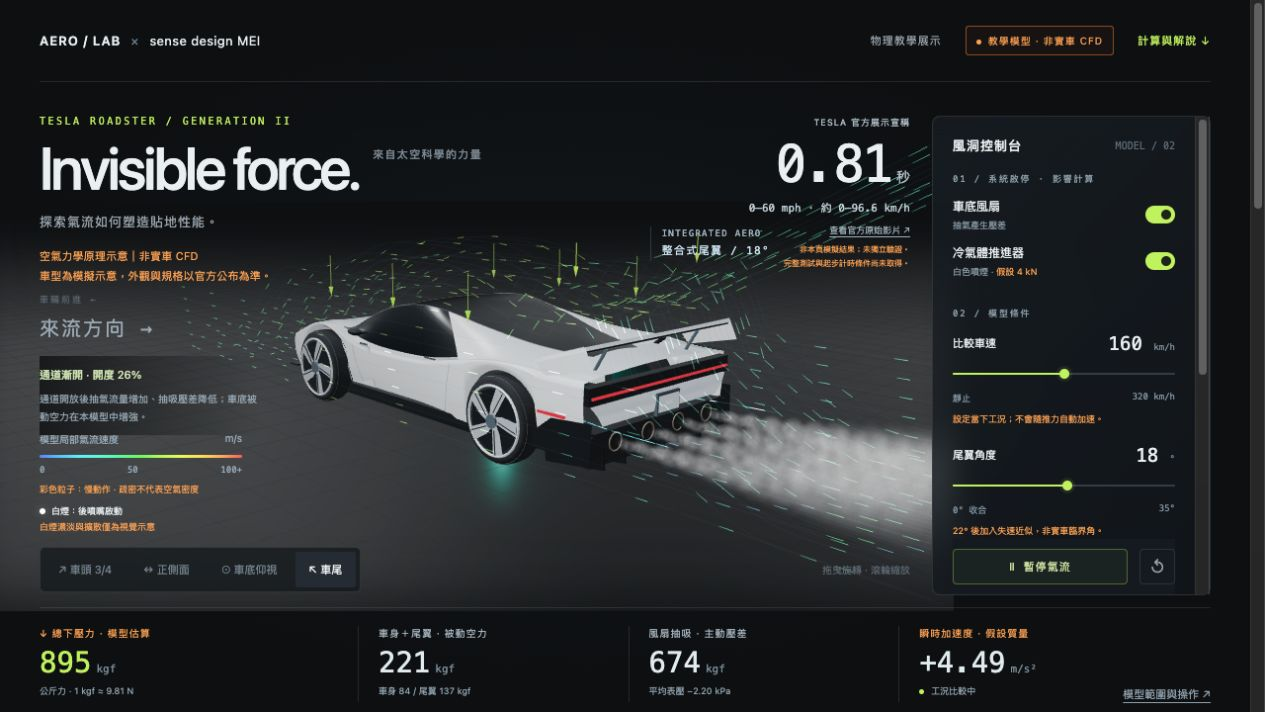
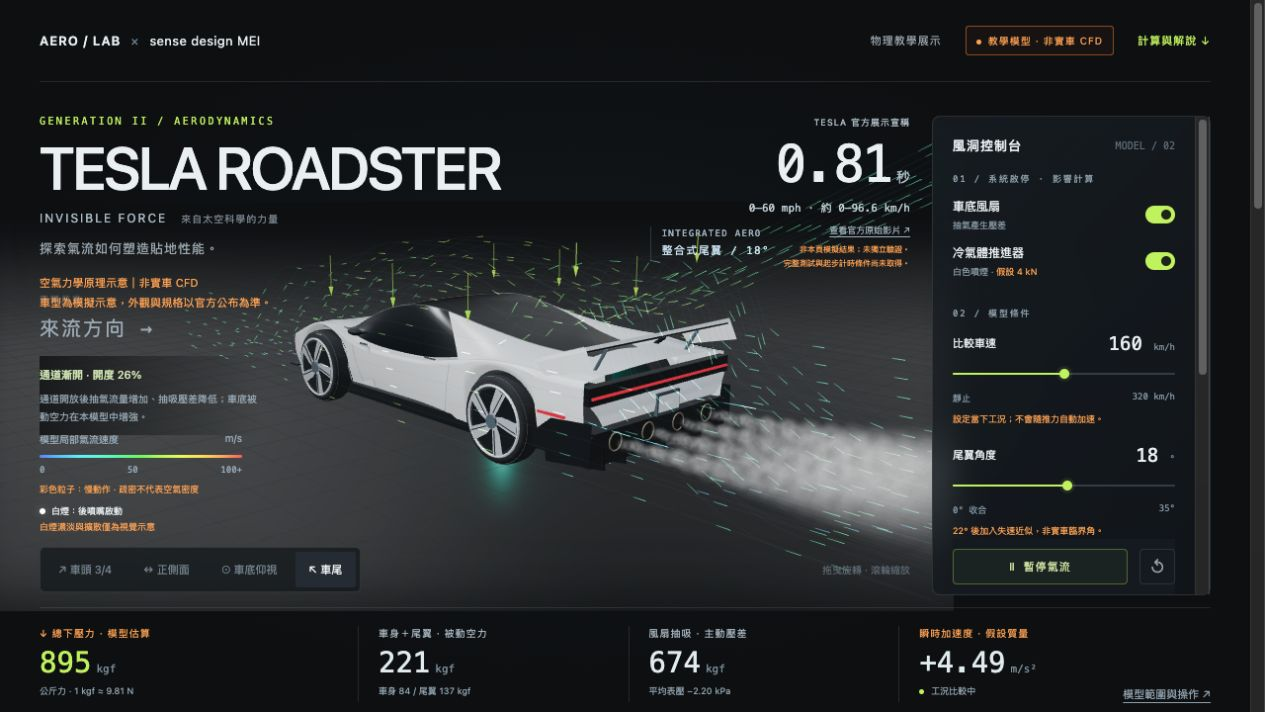
Make Tesla Roadster the primary title

diff --git a/index.html b/index.html
@@ -8,19 +8,20 @@
 <meta property="og:type" content="website">
 <meta property="og:locale" content="zh_TW">
 <meta property="og:site_name" content="AERO / LAB × sense design MEI">
-<meta property="og:title" content="來自太空科學的力量｜AERO / LAB × sense design MEI">
+<meta property="og:title" content="TESLA ROADSTER｜INVISIBLE FORCE · AERO / LAB × sense design MEI">
 <meta property="og:description" content="互動探索 Roadster 的氣流、主動尾翼、車底吸力與白色推進噴煙。空氣力學原理示意，非實車 CFD；車型與規格以官方公布為準。">
 <meta property="og:url" content="https://meimeijazz1206.github.io/roadster-aero-lab/">
-<meta property="og:image" content="https://meimeijazz1206.github.io/roadster-aero-lab/preview.jpg">
+<meta property="og:image" content="https://meimeijazz1206.github.io/roadster-aero-lab/preview.jpg?v=2">
 <meta property="og:image:type" content="image/jpeg">
 <meta property="og:image:width" content="1265">
 <meta property="og:image:height" content="712">
 <meta property="og:image:alt" content="Roadster 空力原理互動展示，包含白色推進噴煙與亮橘色模擬警語">
 <meta name="twitter:card" content="summary_large_image">
-<meta name="twitter:title" content="來自太空科學的力量｜AERO / LAB × sense design MEI">
+<meta name="twitter:title" content="TESLA ROADSTER｜INVISIBLE FORCE · AERO / LAB × sense design MEI">
 <meta name="twitter:description" content="互動探索 Roadster 的氣流、主動尾翼、車底吸力與白色推進噴煙。空氣力學原理示意，非實車 CFD；車型與規格以官方公布為準。">
-<meta name="twitter:image" content="https://meimeijazz1206.github.io/roadster-aero-lab/preview.jpg">
+<meta name="twitter:image" content="https://meimeijazz1206.github.io/roadster-aero-lab/preview.jpg?v=2">
 <link rel="canonical" href="https://meimeijazz1206.github.io/roadster-aero-lab/">
+
 <style>
 :root{color-scheme:dark;--bg:#0a0d10;--muted:#86929c;--line:#ffffff1a;--lime:#c7f369;--mono:ui-monospace,SFMono-Regular,Consolas,monospace}*{box-sizing:border-box}body{margin:0;background:var(--bg);color:#edf2f4;font-family:-apple-system,BlinkMacSystemFont,"Noto Sans TC",Arial,sans-serif;font-size:13px}button,input{font:inherit}button{cursor:pointer}button:focus-visible,a:focus-visible,summary:focus-visible{outline:2px solid var(--lime);outline-offset:5px}button{color:inherit}#app{position:relative;min-height:820px;height:100svh;overflow:hidden;background:radial-gradient(ellipse at 45% 48%,#23303955,transparent 60%)}header{height:83px;display:flex;align-items:center;justify-content:space-between;margin:0 40px;border-bottom:1px solid var(--line);position:relative;z-index:2}.brand{font-size:15px;letter-spacing:5px;font-weight:650;display:flex;align-items:center;gap:16px}.brand svg{width:29px;height:24px}.top-meta{display:flex;align-items:center;gap:24px;color:#a2acb3;font-size:11px;letter-spacing:1px}.pill{border:1px solid #ffffff27;padding:7px 10px;border-radius:3px;font-size:10px;letter-spacing:1px}.dot{display:inline-block;width:5px;height:5px;background:var(--lime);border-radius:50%;margin-right:7px}.intro{position:absolute;top:117px;left:40px;z-index:2;pointer-events:none}.eyebrow{color:var(--lime);font:10px var(--mono);letter-spacing:2.5px;margin-bottom:12px}.intro h1{font-size:clamp(42px,5.4vw,80px);line-height:1;margin:0 0 15px;font-weight:500;letter-spacing:-3px}.intro h1 span{font-size:11px;letter-spacing:1.3px;display:inline-block;vertical-align:top;margin:10px 0 0 14px;color:var(--muted)}.intro p{font-size:13px;letter-spacing:2px;color:#a6b1b9;margin:0}.subtitle{margin-top:16px!important;font-size:11px!important;color:#6e7b85!important;letter-spacing:.2px!important}.scene{position:absolute;inset:85px 280px 122px 0;touch-action:none}.scene canvas{display:block;width:100%;height:100%;outline:none}.scene:after{content:"";position:absolute;inset:0;pointer-events:none;box-shadow:inset 0 -45px 65px -45px #0a0d10}.axis-label{position:absolute;left:40px;top:51%;color:#65727c;font:10px var(--mono);letter-spacing:2px;pointer-events:none}.axis-label b{display:block;margin-top:9px;color:#a6b3bc;font-size:20px;font-weight:400}.legend{position:absolute;left:40px;bottom:200px;z-index:2;width:170px;pointer-events:none}.legend-title{display:flex;justify-content:space-between;font-size:10px;color:#8d9aa4;margin-bottom:9px}.gradient{height:3px;background:linear-gradient(90deg,#2375ff,#37c8ed,#c4db68,#ffad44,#ff4e49);border-radius:3px}.legend-ticks{display:flex;justify-content:space-between;font:9px var(--mono);color:#78858e;margin-top:7px}.viewbar{position:absolute;bottom:141px;left:40px;right:322px;display:flex;align-items:center;justify-content:space-between;gap:15px;z-index:3}.views{display:flex;border:1px solid var(--line);border-radius:5px;background:#11171bbb;padding:4px;gap:4px}.views button{border:0;background:transparent;padding:10px 14px;color:#7e8c96;font-size:11px;border-radius:3px;white-space:nowrap}.views button[aria-pressed=true]{background:#293139;color:#f0f4f6}.gesture{color:#6b7781;font-size:10px;white-space:nowrap}.panel{position:absolute;top:117px;right:40px;bottom:138px;width:260px;border:1px solid var(--line);border-radius:8px;background:linear-gradient(135deg,#1a2229b8,#10161dd9);backdrop-filter:blur(16px);z-index:4;padding:21px;display:flex;flex-direction:column;overflow-y:auto;overscroll-behavior:contain}.panel>*{flex-shrink:0}.panel-head{display:flex;align-items:center;justify-content:space-between;margin-bottom:24px}.panel-head h2{font-size:13px;font-weight:500;letter-spacing:1px;margin:0}.panel-head span{font:10px var(--mono);color:#697983}.section-title{font:9px var(--mono);color:#778995;letter-spacing:1.8px;margin-bottom:13px}.toggle-row{display:flex;align-items:center;justify-content:space-between;gap:9px;margin-bottom:16px;cursor:pointer;min-height:28px}.toggle-row strong{font-size:12px;font-weight:400;display:block}.toggle-row small{font-size:9px;display:block;color:#70808b;margin-top:4px}.switch{position:relative;flex-shrink:0;width:30px;height:18px}.switch input{position:absolute;opacity:0;width:100%;height:100%;margin:0;cursor:pointer}.switch span{display:block;width:100%;height:100%;background:#384149;border-radius:15px;pointer-events:none;transition:background .15s}.switch span:after{content:"";position:absolute;top:4px;left:4px;width:10px;height:10px;border-radius:50%;background:#adb7be;transition:transform .15s}.switch input:checked+span{background:var(--lime)}.switch input:checked+span:after{transform:translateX(12px);background:#20291a}.switch input:focus-visible+span{outline:2px solid white;outline-offset:3px}.divider{height:1px;background:var(--line);margin:4px 0 20px;flex-shrink:0}.range-block{margin-bottom:22px}.range-label{display:flex;justify-content:space-between;align-items:center;margin-bottom:12px;font-size:11px}.range-label output{font:19px var(--mono);color:#eef3f5}.range-label output small{font-size:9px;color:#8a9ba6}.range-block input[type=range]{width:100%;height:16px;cursor:pointer;appearance:none;background:transparent;margin:0}.range-block input[type=range]::-webkit-slider-runnable-track{height:2px;background:linear-gradient(90deg,var(--lime) var(--fill,50%),#3a454e var(--fill,50%));border-radius:2px}.range-block input[type=range]::-webkit-slider-thumb{appearance:none;width:10px;height:10px;border-radius:50%;margin-top:-4px;background:var(--lime);box-shadow:0 0 0 3px #c7f36914}.range-block input[type=range]::-moz-range-track{height:2px;background:#3a454e}.range-block input[type=range]::-moz-range-progress{height:2px;background:var(--lime)}.range-block input[type=range]::-moz-range-thumb{width:10px;height:10px;border:0;background:var(--lime);border-radius:50%}.endpoints{display:flex;justify-content:space-between;color:#62737e;font:9px var(--mono);margin-top:7px}.play-row{display:flex;align-items:center;gap:12px;margin-top:auto;padding-top:3px}.play{width:100%;border:1px solid #c7f36955;background:#c7f3690b;border-radius:4px;height:36px;font-size:11px;color:#d7ecae;letter-spacing:1px}.play b{margin-right:8px;font-size:11px;font-weight:400}.reset{background:none;border:1px solid var(--line);border-radius:4px;height:36px;width:36px;flex-shrink:0;color:#a0adb5;font-size:17px}.panel-note{color:#6c7f8c;font-size:9px;line-height:1.7;margin:12px 0 0}.hud{position:absolute;left:40px;right:40px;bottom:30px;height:91px;border-top:1px solid var(--line);display:grid;grid-template-columns:1.18fr 1fr 1fr 1.15fr;z-index:3;padding-top:18px}.hud-cell{border-right:1px solid var(--line);padding:0 26px}.hud-cell:first-child{padding-left:0}.hud-cell:last-child{border:0;padding-right:0}.hud-label{font-size:10px;color:#7e909c;letter-spacing:1px;margin-bottom:9px}.metric{font:29px var(--mono);line-height:1;color:#e5edef}.metric small{font-size:11px;color:#8a9ca8;margin-left:5px}.metric.accent{color:var(--lime)}.meter{height:2px;width:145px;background:#29343b;margin-top:10px}.meter i{display:block;height:100%;width:40%;background:var(--lime);transition:width .15s}.hud-sub{color:#71848f;font-size:9px;margin-top:7px}.mode{font-size:14px;letter-spacing:1px;margin-top:4px}.info-btn{background:none;border:0;padding:0;color:#99aab6;text-decoration:underline;text-underline-offset:4px;font-size:10px;position:absolute;right:0;bottom:0}.scene-tag{position:absolute;left:52%;top:30%;color:#adc0cd;font:9px var(--mono);letter-spacing:1.3px;pointer-events:none;border-left:1px solid #748b9455;padding-left:11px;line-height:1.7}.scene-tag b{display:block;color:#d4e8f5;font-size:11px;font-weight:400}.loader{position:absolute;inset:0;display:flex;align-items:center;justify-content:center;flex-direction:column;gap:16px;background:#0a0d10ee;z-index:10;color:#94a3ad;font-size:12px;line-height:1.8;text-align:center;padding:30px}.loader[hidden]{display:none}.spinner{width:24px;height:24px;border-radius:50%;border:1px solid #ffffff20;border-top-color:var(--lime);animation:spin 1s linear infinite}@keyframes spin{to{transform:rotate(360deg)}}dialog{background:#121a20;color:#cbd6de;max-width:560px;width:calc(100% - 36px);border:1px solid #ffffff26;border-radius:9px;padding:28px;line-height:1.9;font-size:12px}dialog::backdrop{background:#000b;backdrop-filter:blur(8px)}dialog h2{font-size:19px;font-weight:500;color:white;margin-top:0}dialog button{float:right;border:1px solid #ffffff30;padding:7px 18px;border-radius:4px;background:#26343d}dialog code{font-size:10px;color:var(--lime)}dialog a{color:#c7f369}dialog p{margin:14px 0}dialog .formula{background:#0b1115;padding:12px;border-radius:4px;font-family:var(--mono);font-size:11px}.mobile-hint{display:none}
 @media(min-height:930px){.panel{top:117px;bottom:138px}.viewbar{bottom:160px}.scene{bottom:145px}.legend{bottom:225px}}
@@ -39,6 +40,13 @@ html{scroll-behavior:smooth}#app{min-height:740px}a{color:var(--lime)}.top-meta 
 @media(max-width:700px){.brand{font-size:10px;gap:6px;letter-spacing:.4px}.brand-name{letter-spacing:0}.top-meta{gap:5px}.top-meta a{font-size:9px}.legend{top:565px}.legend-note{font-size:8px}.guide-control{grid-column:1/-1}.launch-metric{top:231px;left:20px;right:20px;width:auto;text-align:left;display:grid;grid-template-columns:100px 1fr;column-gap:14px}.launch-metric .launch-label{grid-column:1/-1;font-size:8px}.launch-metric strong{font-size:36px;grid-row:2/5;margin:3px 0 0}.launch-metric .launch-range{margin-top:6px}.launch-metric a{margin-top:5px;font-size:8px}.launch-metric .launch-note{margin-top:2px;font-size:7px}.scene{top:285px}.scene-caption{top:555px}.viewbar{top:672px}.mobile-hint{top:719px}.panel{margin-top:682px}}
 
 
+/* Vehicle name leads; the concept becomes a secondary line. */
+.intro h1{margin-bottom:12px;letter-spacing:-2px;max-width:calc(100vw - 550px)}
+.intro .hero-subtitle{display:flex;align-items:center;flex-wrap:wrap;gap:6px 14px;margin:0 0 12px;font-size:12px;line-height:1.5;letter-spacing:2px;color:#b7c5ce}
+.intro .hero-tagline{font-size:10px;letter-spacing:1px;color:var(--muted)}
+@media(min-width:701px) and (max-width:1050px){.intro h1{font-size:clamp(27px,3.8vw,40px)}}
+@media(max-width:700px){.intro h1{font-size:clamp(27px,7.8vw,43px);letter-spacing:-1px;max-width:calc(100vw - 40px);margin-bottom:10px}.intro .hero-subtitle{font-size:10px;gap:5px 10px;letter-spacing:1.5px;margin-bottom:10px}.intro .hero-tagline{font-size:9px;letter-spacing:.5px}}
+
 :root{--notice:#ffab5c;--notice-line:#ff8a3d80}
 .notice,.notice :is(span,strong,b,small,a),.assumption-table tbody td:last-child{color:var(--notice)!important}
 .legend.is-inactive :is(.legend-title,.gradient,.legend-ticks){opacity:.35}
@@ -52,7 +60,7 @@ html{scroll-behavior:smooth}#app{min-height:740px}a{color:var(--lime)}.top-meta 
 <body>
 <main id="app">
 <header><div class="brand"><span class="brand-lab">AERO / LAB</span><span class="brand-x">×</span><span class="brand-name">sense design MEI</span></div><div class="top-meta"><span>物理教學展示</span><span class="pill notice"><i class="dot"></i>教學模型 · 非實車 CFD</span><a href="#physics-details">計算與解說 ↓</a></div></header>
-<section class="intro"><div class="eyebrow">TESLA ROADSTER / GENERATION II</div><h1>Invisible force.<span>來自太空科學的力量</span></h1><p>探索氣流如何塑造貼地性能。</p><p class="subtitle notice">空氣力學原理示意｜非實車 CFD<br>車型為模擬示意，外觀與規格以官方公布為準。</p></section>
+<section class="intro"><div class="eyebrow">GENERATION II / AERODYNAMICS</div><h1>TESLA ROADSTER</h1><p class="hero-subtitle"><span>INVISIBLE FORCE</span><span class="hero-tagline">來自太空科學的力量</span></p><p>探索氣流如何塑造貼地性能。</p><p class="subtitle notice">空氣力學原理示意｜非實車 CFD<br>車型為模擬示意，外觀與規格以官方公布為準。</p></section>
 <aside class="launch-metric" aria-label="Tesla 官方展示加速成績"><div class="launch-label">TESLA 官方展示宣稱</div><strong>0.81<small>秒</small></strong><div class="launch-range">0–60 mph · 約 0–96.6 km/h</div><a href="https://x.com/Tesla/status/2110963770763649487" target="_blank" rel="noopener">查看官方原始影片 ↗</a><div class="launch-note notice">非本頁模擬結果；未獨立驗證。<br>完整測試與起步計時條件尚未取得。</div></aside><div id="scene" class="scene" role="img" aria-label="可拖曳旋轉的白色 Roadster 3D 概念車與空氣流線"><div class="loader" id="loader"><div class="spinner"></div><span id="load-message">正在建立風洞場景…</span></div></div>
 <div class="axis-label">車輛前進 ←<b>來流方向 →</b></div>
 <div class="scene-tag" id="scene-tag">INTEGRATED AERO<b>整合式尾翼 / <span id="tag-angle">0</span>°</b></div>
